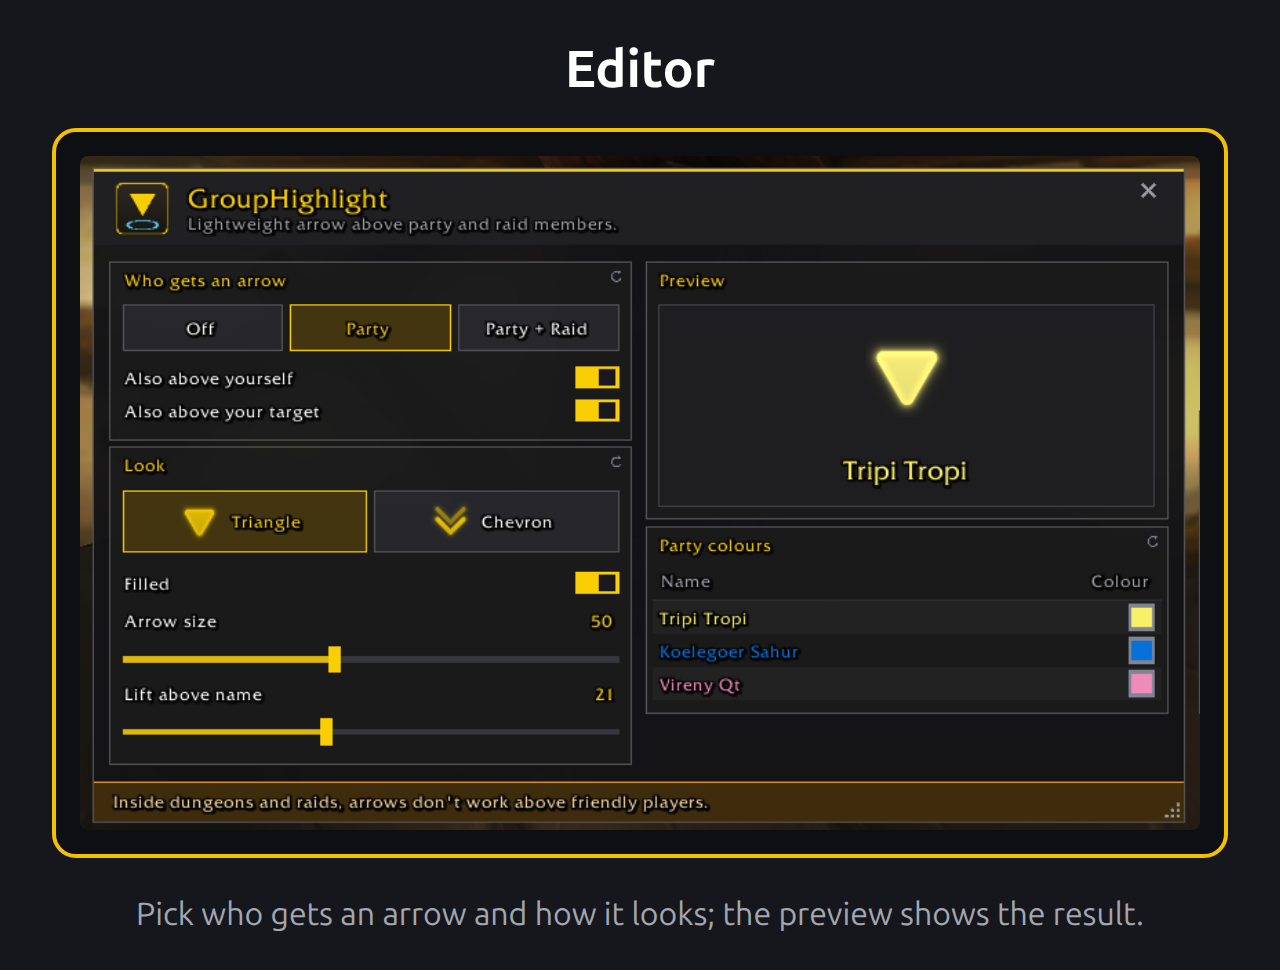
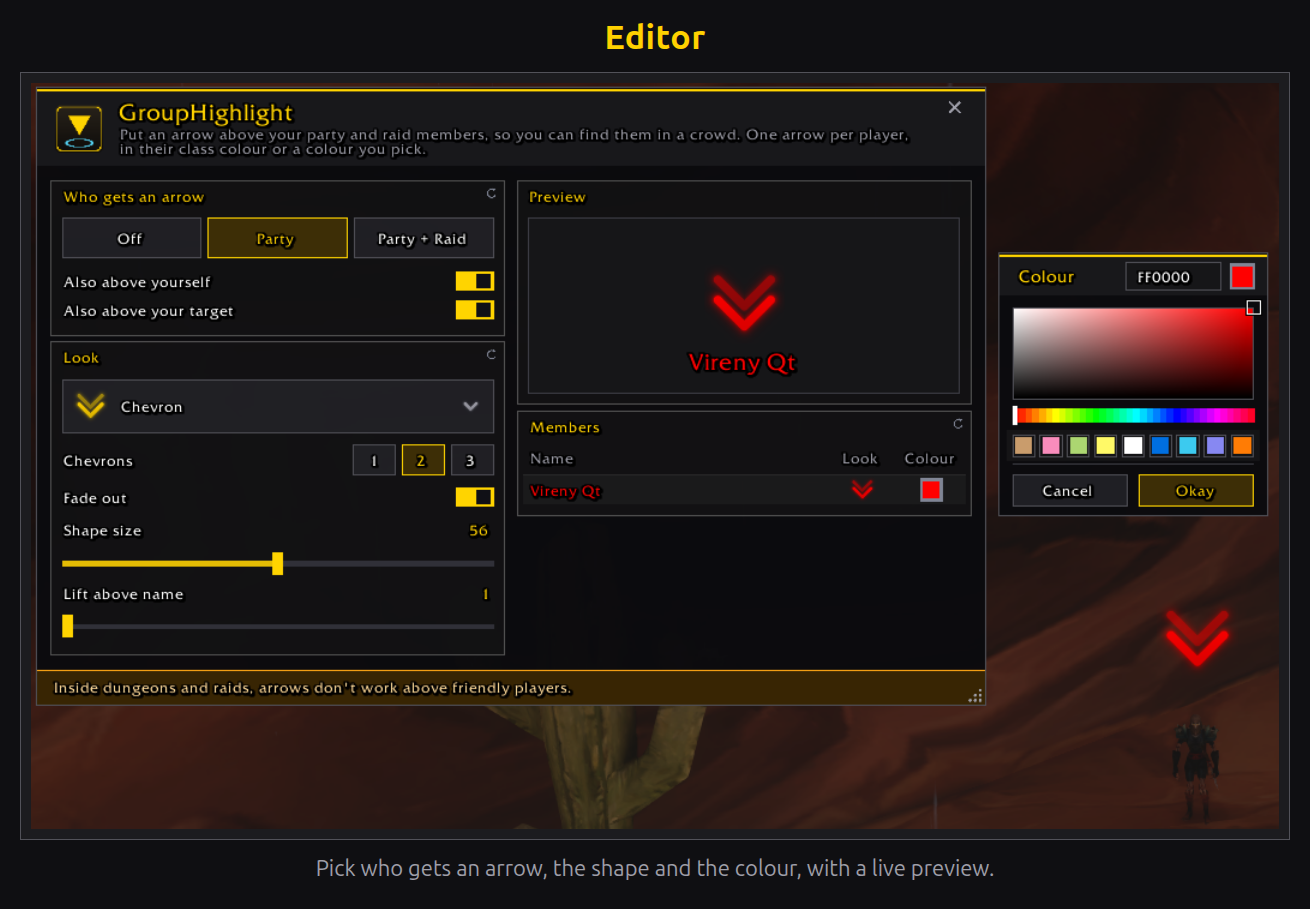
docs: new screenshots in the addon's own colours

diff --git a/README.md b/README.md
@@ -10,7 +10,7 @@ Put an arrow above your party and raid members, so you can find them in a crowd.
 
 ### Editor
 
-<img src="docs/images/1-editor.png" alt="Editor: a header band with the logo, and boxes for who gets an arrow, the look, a preview and the members, with the amber warning at the bottom." width="320">
+<img src="docs/images/1-editor.png" alt="Editor: a header band with the logo, boxes for who gets an arrow, the look, a preview and the members, the amber warning at the bottom, and the colour picker next to it. Two red chevrons float above a player in the game." width="320">
 
 - `/gh` or `/grouphighlight`: open the editor. Type it again (or press Esc) to close it.
 - Drag the header band (with the logo and the name) to move the window. Everything you change shows up in the game world immediately, and the position of the window is kept.
@@ -28,14 +28,14 @@ Put an arrow above your party and raid members, so you can find them in a crowd.
 
 ### Look
 
-<img src="docs/images/2-look.png" alt="Look: a triangle (filled or outline) or one, two or three chevrons, with or without fading out." width="320">
+<img src="docs/images/2-shapes.png" alt="The shape dropdown open: triangle, chevron, diamond, circle, star, pin, shield, sword and plus." width="320">
 
 - Pick a shape from the dropdown: a triangle, one, two or three chevrons (with or without fading out), a diamond, a circle, a star, a map pin, a shield, a sword or a plus. The triangle, diamond, circle, star, shield, sword and plus can be filled or an outline (an outline circle is a ring); the pin is solid or has a round hole.
 - **Shape size** and **Lift above name** set how big the shape is and how high it sits. The preview shows the result.
 
 ### Members
 
-<img src="docs/images/3-party-colours.png" alt="Members: a table with a name and a colour swatch per group member." width="320">
+<img src="docs/images/3-members.png" alt="Members: a table with the name, the shape and the colour per member, next to the colour picker and the shape picker." width="320">
 
 - Arrows use the class colour by default.
 - The table lists your party (in a raid: everyone in the raid), with yourself only when **Also above yourself** is on. With more than five names it scrolls.
@@ -44,8 +44,6 @@ Put an arrow above your party and raid members, so you can find them in a crowd.
 - A chosen colour or shape is remembered by name and realm.
 
 ### Colour picker
-
-<img src="docs/images/4-colour-picker.png" alt="Colour picker: the hex code and the colour at the top, a colour field, a hue bar, presets, and Cancel and Okay." width="320">
 
 - The picker is fixed to the editor, next to it at the height of the Members table, and moves with it.
 - It has a colour field, a hue bar and a preset for every class. The hex code and the new colour (on the far right) are in its title bar; type six hex digits in the hex field, for example FF8800. The result shows in the game immediately.
